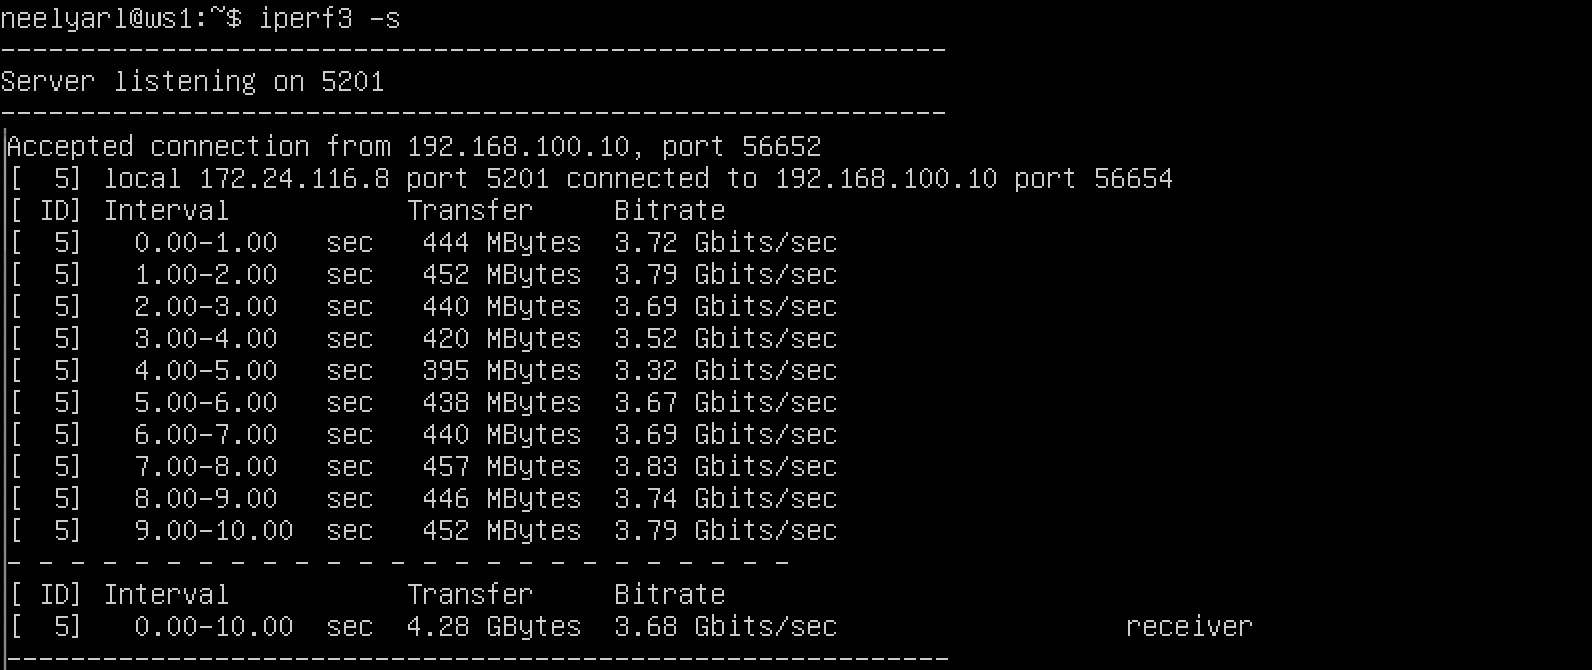
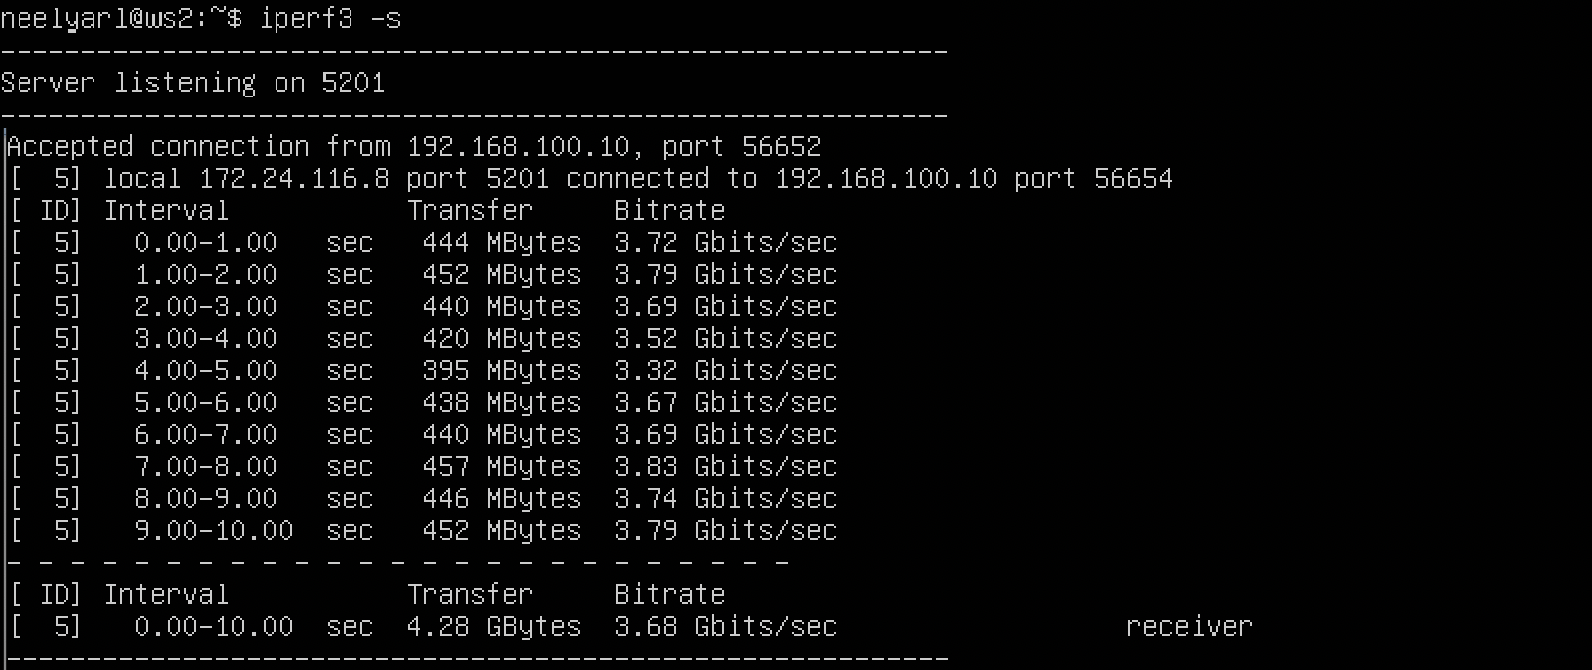
iperf3

Changed region(s): [[0.0, 0.0597, 0.5848, 0.1791], [0.0923, 0.0, 0.1231, 0.0299]]

diff --git a/report.md b/report.md
@@ -194,6 +194,14 @@
   </p>
   <img src="Screenshots/part_3/3.1.2.png" />
   <p align="center">
+    <sup> iperf3 -s (ws2) </sup>
+  </p>
+  <img src="Screenshots/part_3/3.1.3.png" />
+  <p align="center">
+    <sup> iperf3 -c (ws2) </sup>
+  </p>
+  <img src="Screenshots/part_3/3.1.4.png" />
+  <p align="center">
     <sup> iperf3 -s (ws1) </sup>
   </p>
 </p>
